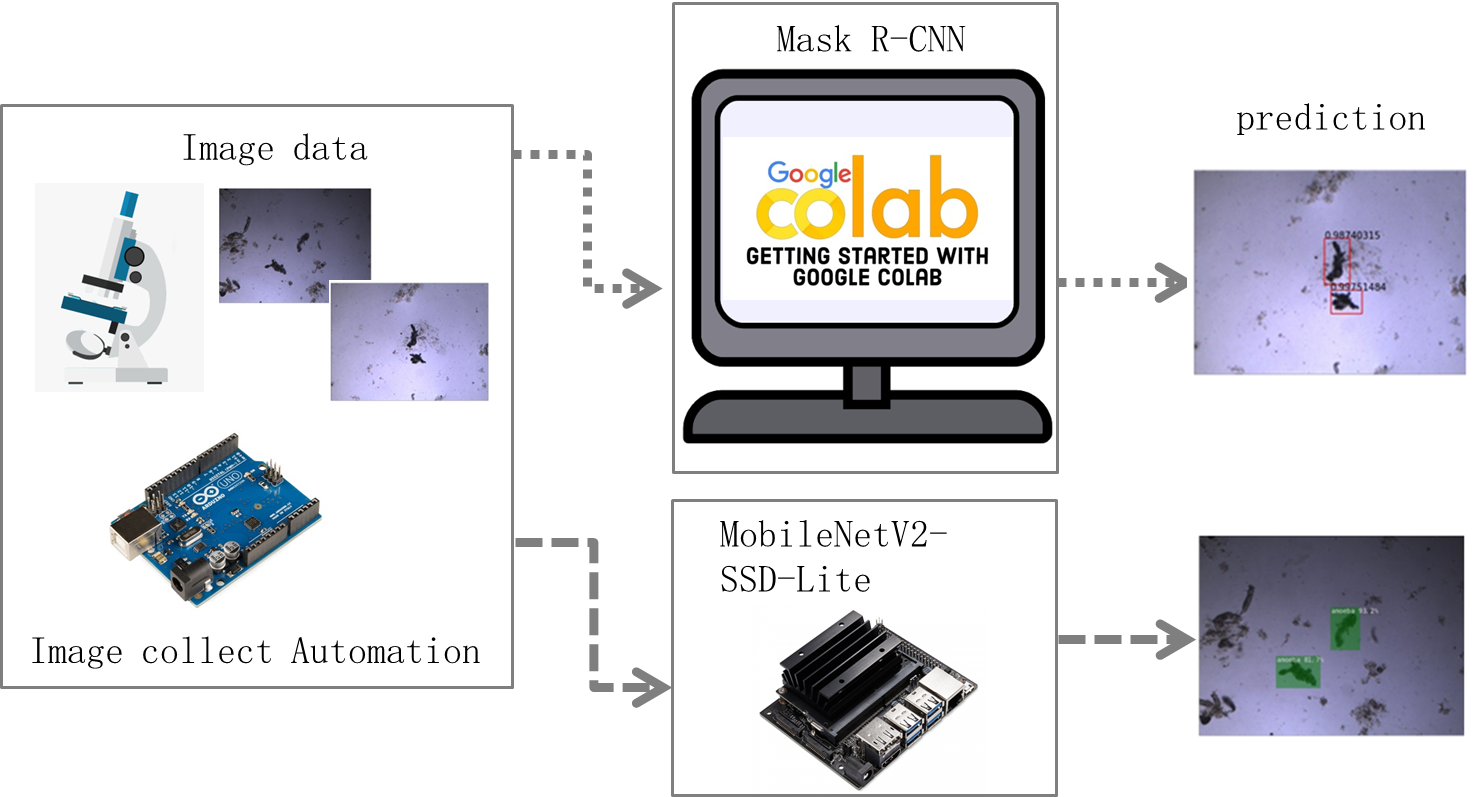
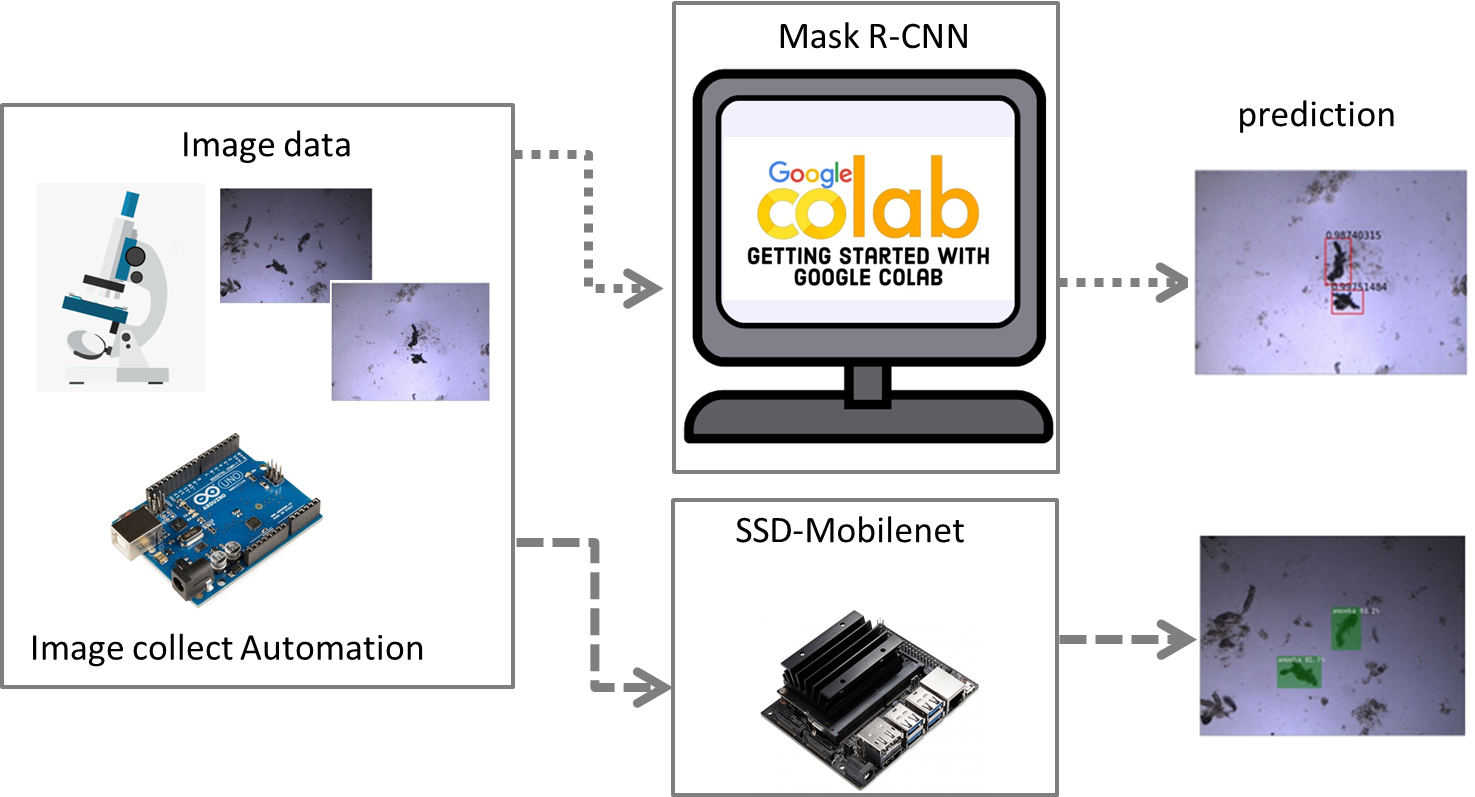
README update

diff --git a/README.md b/README.md
@@ -3,33 +3,32 @@
 </p>
   
 
-# Workshop for Computer Vision Using Machine learning: Classification, Detection and Analysis of amoeba
+# **Workshop on computer vision for analytical chemists: classification and detection of amoebae using optical microscopy image analysis with machine learning**
 
-This is a workshop for computer vision using machine learning. Students will learn to classify, detect and analyze microorganisms in optical microscopic images with machine learning model. Students will know how to setup environment for computer vision, load images dataset, data preparation, train custom model, evaluate the model and run prediction on new images with trained model. We set up 3 levels, including image classification using machine learning (level 1), object detection in Google Colab using Mask R-CNN (level 2), object detection in Jetson Nano (level 3). It is better for students to have python basics and data analysis with python. 
+This is a workshop for computer vision using machine learning. Students will learn to classify, detect and analyze microorganisms like amoebae in optical microscopic images with machine learning model. Students will know how to setup environment for computer vision, load images dataset, data preparation, train custom model, evaluate the model and run prediction on new images with trained model. The workshop content is level-based and includes image classification using machine learning (level 1), object detection in Google Colab using Mask R-CNN model (level 2), object detection in Jetson Nano using SSD-Mobilenet model (level 3). This requires that the students possess the knowledge of Python basics elements and data analysis with Python. 
 
 ## Students prerequisites
-The workshop is designed to teach analytical chemistry senior or master students to learn how to classify and detect microorganisms, such as amoeba, in microscopic images. This requires the fundamentals of python basics and data analysis with python. A great workshop for this topic is published in Journal of Chemical Education by Lafuente etc. Students are encouraged to check their tutorial in Github (https://github.com/ML4chemArg/Intro-to-Machine-Learning-in-Chemistry) Some basic knowledge of statistics, analytical chemistry and biology is also required to know the optical microscopic images and analyze the concentration of amoeba. 
+The workshop is designed to teach analytical chemistry students to classify and detect microorganisms, such as amoebae, in microscopic images. This requires that the students possess the knowledge of Python basics elements and data analysis with Python. An introduction to these topics is already published in the Journal of Chemical Education by Lafuente etc. Students are encouraged to check their tutorial in Github (https://github.com/ML4chemArg/Intro-to-Machine-Learning-in-Chemistry). Some basic knowledge of statistics, analytical chemistry and biology would also be helpful as applied to the optical microscopy operation and concentration analysis, but is not required. 
 
 ## Workshop contents 
 ### Level 1: Image classification with machine learning
-  The `level1_imageClassificationWithML` folder focuses on teaching students the basic image classification and workflow of computer vision using machine learning. Students will learn to train the machine learning model to classify different clothes pictures from Fashion_MNIST dataset in the example notebook. Students will know how to use the trained model to distinguish if one image contains amoeba or not from the dataset we collected in our lab in the assignment and solution notebook. 
-  We use Keras as the start of this topic, since Keras is simple, flexible and powerful to start for students. Keras is a deep learning API written in Python, running on top of the machine learning platform Tensorflow. More information about Keras can refer to the doc: https://keras.io/about/. 
+The notebooks in `level1_imageClassificationWithML` folder focuses on teaching students the basic image classification and workflow of computer vision using machine learning. In an example notebook, students will learn to train an ML model to classify different clothes images from [Fashion_MNIST dataset](https://github.com/zalandoresearch/fashion-mnist). As an assignment based on this example, the students will then train the model and use the trained model to distinguish if an image contains an amoeba or not; an appropriate dataset (collected in our lab) will be provided in `dataset-level1`. The solution notebook is also provided to allow the students check their answer.
+We use Keras as the start of this topic, since Keras is simple, flexible and powerful to start for students. Keras is a deep learning API written in Python, running on top of the machine learning platform Tensorflow. More information about Keras can refer to the [Keras doc](https://keras.io/about/). 
 
 ### Level 2: Object detection with Mask R-CNN
-  The `level2_objectDetectionWithMaskRCNN` folder presents one network that can run object detection for the image. At first, one example from source code (https://github.com/matterport/Mask_RCNN)  is introduced to students to let them know how Mask R-CNN works in the example notebook. Then, the amoeba images are used to train Mask R-CNN model and trained model is used to distinguish the position, number of amoeba in one image. We collected continued images in one water drop and the amoeba in the water drop can be analyzed by the trained Mask R-CNN model. 
-  The inference images are used to analyze the amoeba in the water drop and they are provided in the `results` folder. 
+The notebook in `level2_objectDetectionWithMaskRCNN` folder presents one network that can run object detection for the images. At first, one example referred from the [Mask R-CNN github](https://github.com/matterport/Mask_RCNN/tree/master/samples ) and [the blog](https://machinelearningmastery.com/how-to-train-an-object-detection-model-with-keras/ ) is introduced to students to learn how Mask R-CNN works in an example notebook. Then, the amoebae images are used to train a Mask R-CNN model and the trained model is used to distinguish the position and number of amoebae in one image. We collected a series of images depicting one water drop with the help of automated device, and the amoebae in the drop could then be analyzed by the trained Mask R-CNN model. The inference images for analysis of the amoeba in the water drop are provided in the `results` folder. The bonus notebook is also included to let students distinguish two types of amoebae like *A. proteus* and *N. fowleri*. The dataset used for Mask R-CNN is provided in `dataset-level2`. 
 
-  We choose Mask R-CNN as second level is because the API and platform it uses is the same with level 1. Mask R-CNN is implemented on Python 3, Keras, Tensorflow. The model generates bounding boxes and segmentation masks for each instance of an object in the image. It's based on Feature Pyramid Network (FPN) and a ResNet101 backbone. 
+Mask R-CNN is implemented on Python 3, Keras, Tensorflow. The model generates bounding boxes and segmentation masks for each instance of an object in the image. It's based on Feature Pyramid Network (FPN) and a ResNet101 backbone. We choose Mask R-CNN as second level, because the API and platform Mask R-CNN uses is the same with level 1 and Mask R-CNN is one of the most important frameworks as it has been demonstrated to be accurate, flexible and efficient, and also simple to implement. It has become very popular since its development in 2017.
 
 ### Level 3: Object detection using Jetson Nano
-  The `level3_objectDetectionWithJetsonNano` folder mainly introduces students to run object detection in Jetson Nano. Linux command line is the basic technique that students need to know. Then students are encouraged to follow the tutorial in the supporting information (SI) and source code of Jetson Nano (https://github.com/dusty-nv/jetson-inference) to install necessary packages and run object detection. 
+The Level 3 tutorial in `level3_objectDetectionUsingJetsonNano` folder mainly introduces students to running object detection using Jetson Nano. At First, they need to know how command line arguments work in Python before attempting the exercises. Afterwards, students can run the amoeba detection example. Students are encouraged to follow `level3_objectDetectionUsingJetsonNano/Jetson Nano tutorial.md` to finish the exercises. The dataset used in the Jetson Nano exercise is the same as the one for Mask R-CNN and is provided in `dataset-level3`. 
 
 <br/>
 
 ## Other information:
-### Datasets: 
-  Images were collected with a microscope camera (QImaging Go-3, Teledyne Photometrics, USA) . The images need to convert from .TIF format to .jpg format. And the python code that can perform this job is provided in `tools` folder. For object detection, the images are labeled and converted into the Pascal Visual Object Challenge (VOC) data type.  The amoebae in the images were labeled with the open source tool LabelImg in GitHub (Tzutalin, LabelImg, Git code (2015), https://github.com/tzutalin/labelImg). We can use code in `tools` folder to visualize the labeled images. All datasets that are used for three levels are provided in `dataset-level1`, `dataset-level2`, `dataset-level3` folder. The Google Colab notebook will load the specific dataset automatically. 
+### Amoebae Datasets: 
+Images were collected with a microscope camera (QImaging Go-3, Teledyne Photometrics, USA) . The images need to convert from .TIF format to .jpg format. And the python code that can perform this job is provided in `tools/TIFtoJPG` folder. For object detection, the images are labeled and converted into the Pascal Visual Object Challenge (VOC) data type.  The amoebae in the images were labeled with the open source tool LabelImg in GitHub (Tzutalin, LabelImg, Git code (2015), https://github.com/tzutalin/labelImg). We can use code in `tools/amoebaDataset-visualization` and `tools/amoebaProFowDataset-visualization`folder to visualize the labeled images. All datasets that are used for three levels are provided in `dataset-level1`, `dataset-level2`, `dataset-level3` folder. The Google Colab notebook will load the specific dataset automatically. More descriptions about our datasets are in the paper and SI. 
 
 ### Arduino: 
-  Arduino Uno stepper motor is used to control the movement of table to image the whole drops. The code is contained in the folder `arduino/uno_steppermotor`. For setting up the Arduino, the tutorials are recommended: https://www.youtube.com/playlist?list=PLGs0VKk2DiYw-L-RibttcvK-WBZm8WLEP. 
+Arduino Uno stepper motor is used to control the movement of table to image the whole drops. The code is contained in the folder `tools/arduino/uno_steppermotor`. For setting up the Arduino, the tutorials are recommended: https://www.youtube.com/playlist?list=PLGs0VKk2DiYw-L-RibttcvK-WBZm8WLEP. 
 
